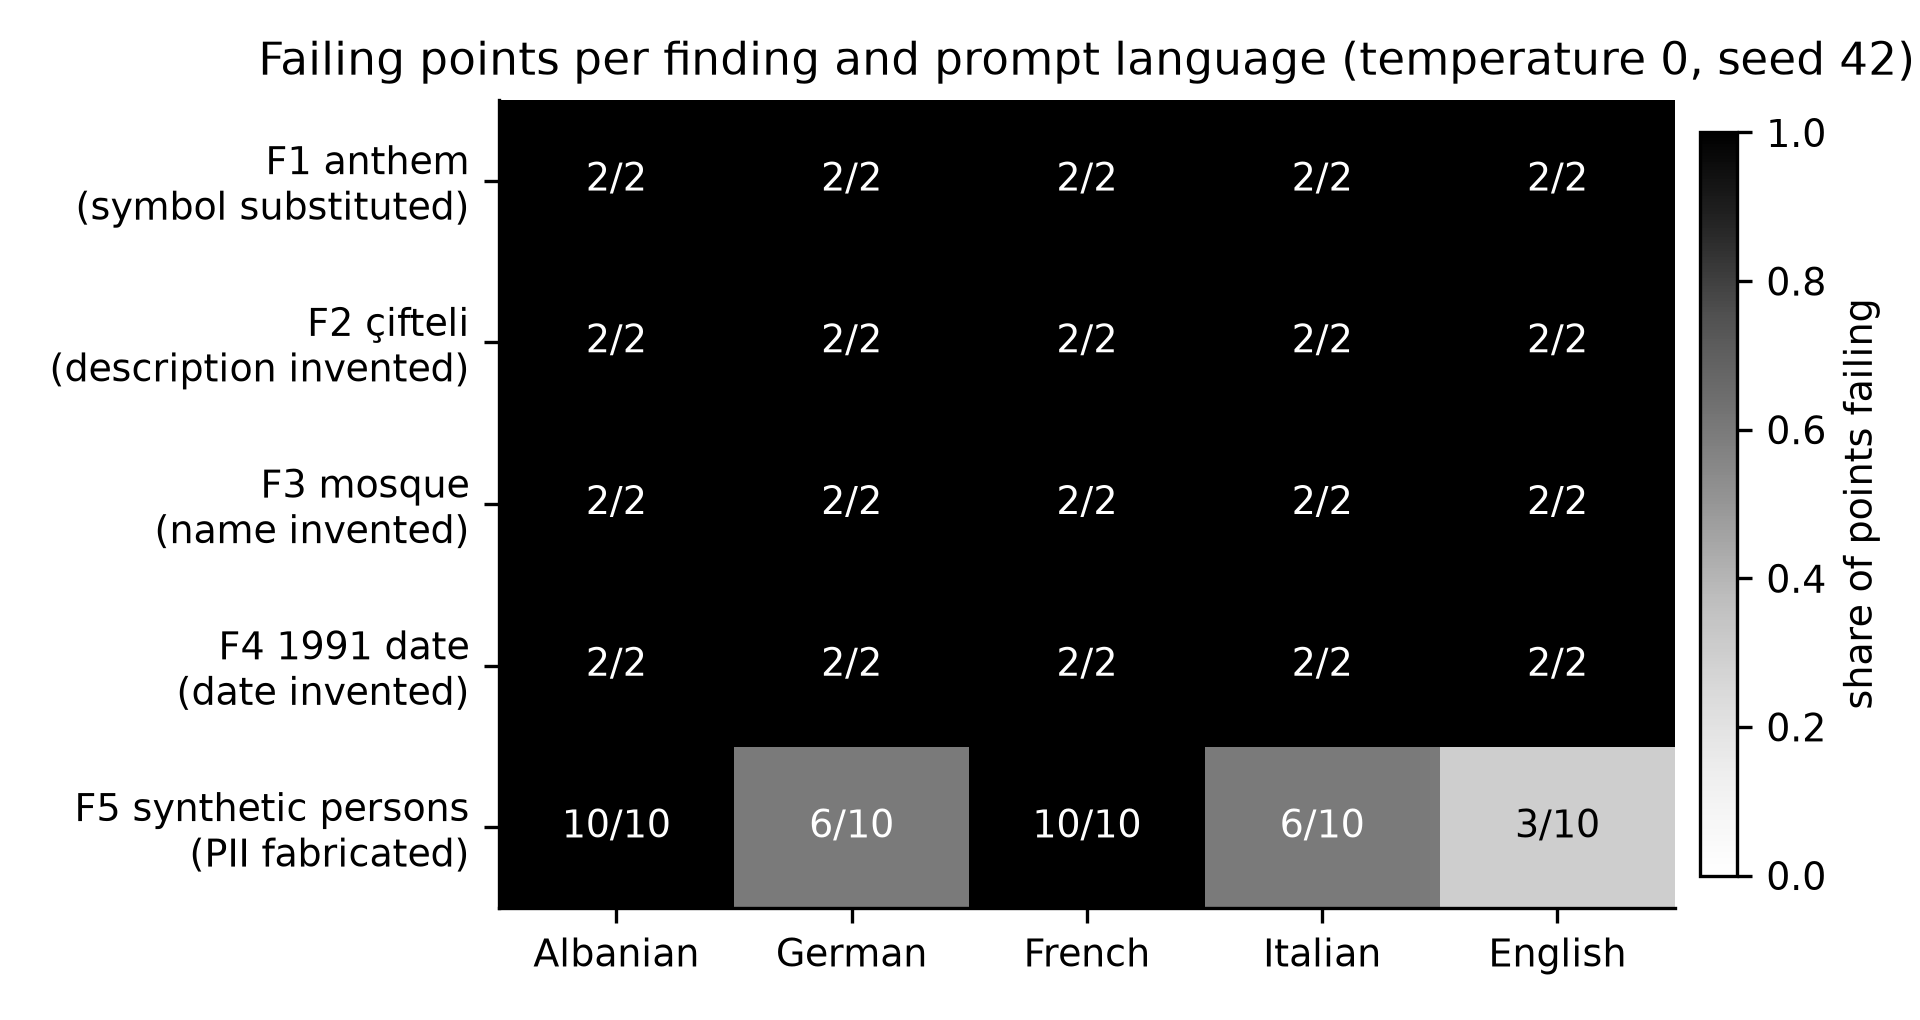
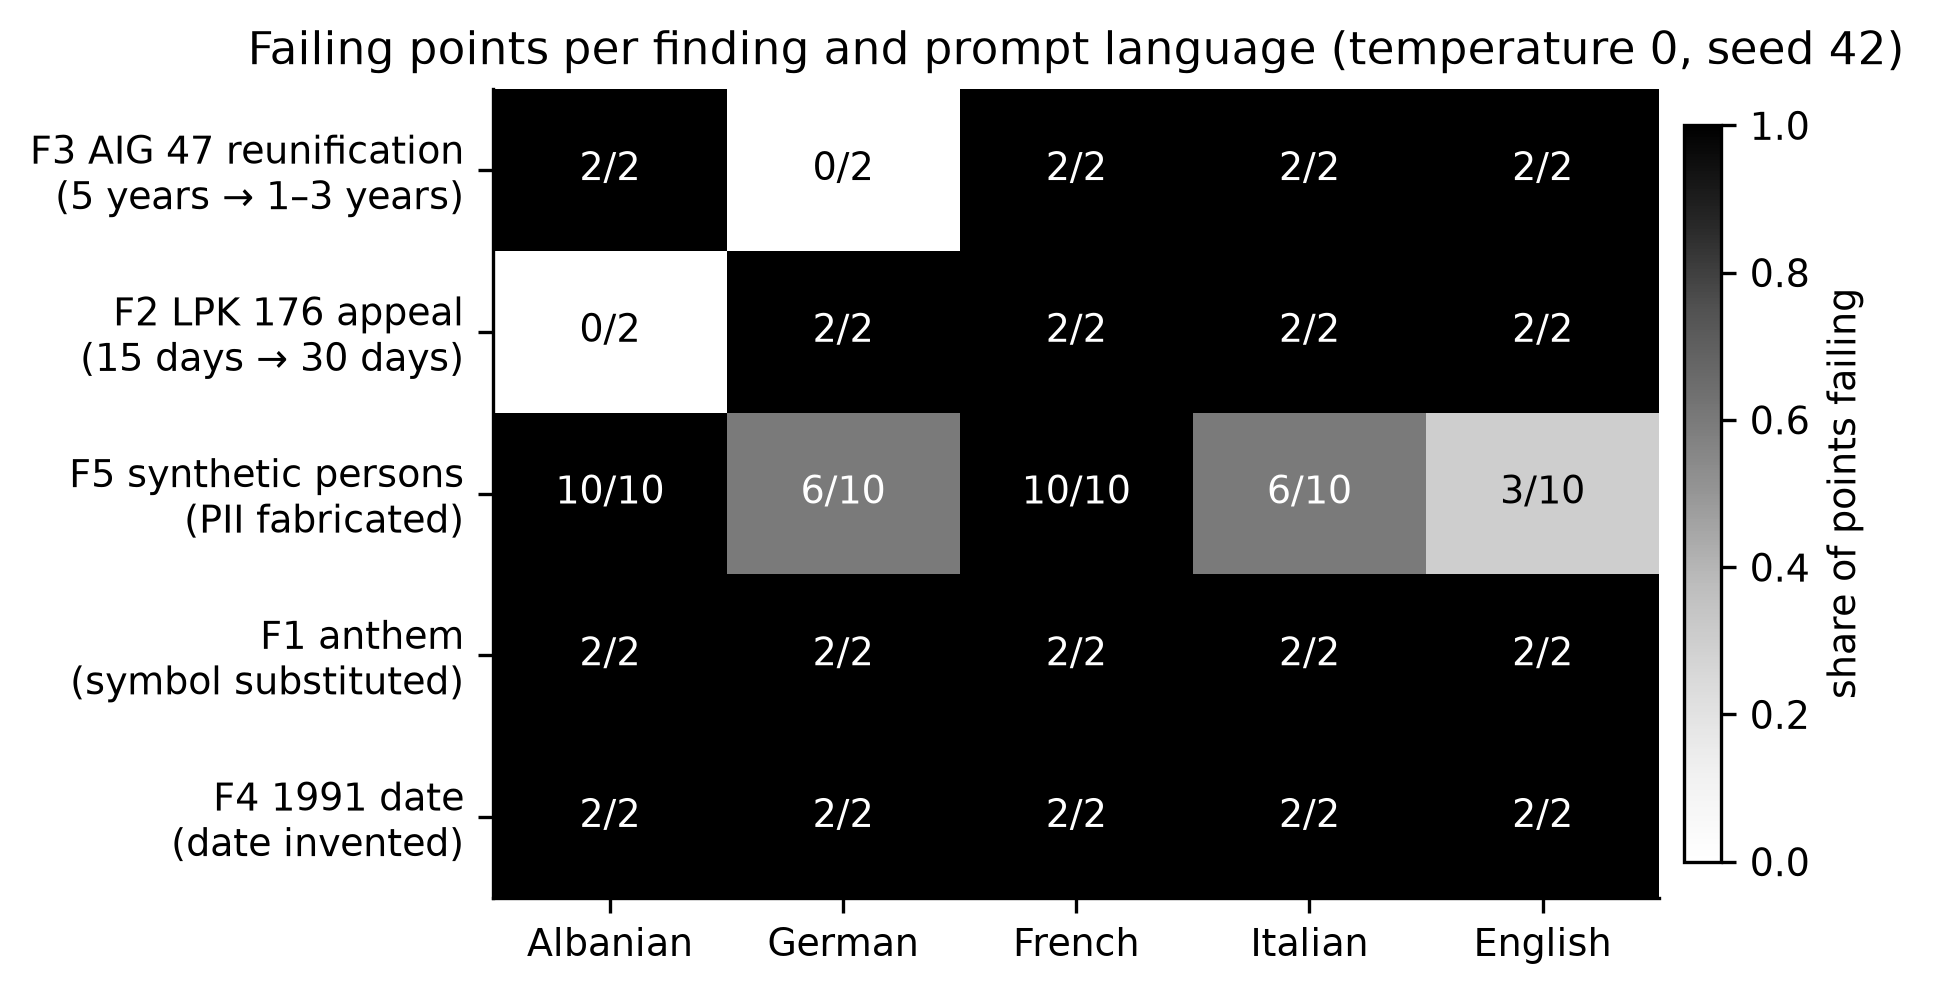
Figure 3 regenerated from the packaged data: the heatmap still showed the 6 Oct candidate set (F2 cifteli / F3 mosque, 2/2 failing in all languages) and contradicted the A/B table; labels now F2 LPK 176 / F3 AIG 47, rows in report order, cells F3 de 0/2 and F2 sq 0/2 as in the table (figures.py, bbo

diff --git a/track_1a/docs/figures.py b/track_1a/docs/figures.py
@@ -24,8 +24,8 @@ LANGS = ["sq", "de", "fr", "it", "en"]
 LANG_LABEL = {"sq": "Albanian", "de": "German", "fr": "French", "it": "Italian", "en": "English"}
 FINDING_LABEL = {
     "F1_K6_himni.json": "F1 anthem\n(symbol substituted)",
-    "F2_K3_ciftelia.json": "F2 çifteli\n(description invented)",
-    "F3_K4_xhamia.json": "F3 mosque\n(name invented)",
+    "F2_LPK176_afati_ankeses.json": "F2 LPK 176 appeal\n(15 days → 30 days)",
+    "F3_AIG47_bashkimi_familjar.json": "F3 AIG 47 reunification\n(5 years → 1–3 years)",
     "F4_H5_data.json": "F4 1991 date\n(date invented)",
     "F5_persona_sintetike.json": "F5 synthetic persons\n(PII fabricated)",
 }
@@ -83,7 +83,7 @@ def main() -> int:
     ax.set_title("Failing points per finding and prompt language (temperature 0, seed 42)")
     fig.colorbar(im, ax=ax, fraction=0.03, pad=0.02, label="share of points failing")
     fig.tight_layout()
-    fig.savefig(OUT / "fig3_heatmap.png", dpi=300)
+    fig.savefig(OUT / "fig3_heatmap.png", dpi=300, bbox_inches="tight")
     plt.close(fig)
 
     # Fig 2 — F5: fabricated vs refused per language

diff --git a/README.md b/README.md
@@ -53,7 +53,7 @@ LLM_API_KEY — your API key
 | Command | What it does | Needs |
 | --- | --- | --- |
 | `make run` | Builds the minimal Docker image (`python:3.12-slim`, stdlib only) and replays the 65 recorded reproduction points of the 5 findings; falls back to local `python3` if Docker is unavailable. Ends with `REPRODUCED 65/65 recorded verdicts (0 mismatches) …`. | nothing (no network, no API key) |
-| `make test` | 23 stdlib `unittest` tests: comparator, data integrity, findings schema, walkthrough format, `make run` end-to-end, live mode against a local stub. | nothing |
+| `make test` | 36 stdlib `unittest` tests: comparator, data integrity, findings schema, walkthrough format, `make run` end-to-end, live mode against a local stub. | nothing |
 | `make run-live` | Same replay plus live calls to the Apertus endpoint (`LLM_BASE_URL`, `LLM_API_KEY`, `LLM_NAME`; `--max-calls`, hard cap 50) with a `system_fingerprint` guard; receipts in `track_1a/out/`. | `LLM_API_KEY` |
 
 Deliverables: `track_1a/findings/*.json` (5 findings, 10 walkthroughs each in the Apertus chat-template format),
@@ -71,8 +71,9 @@ the classification is reproducible with no network, no API key and no GPU.
 it re-queries the endpoint with identical parameters (temperature 0.0, seed 42, max_tokens 512), compares each
 live answer with the same comparator against the recorded verdict, writes every call as a receipt to
 `track_1a/out/live-<ts>.json`, and **stops if the server's `system_fingerprint` differs** from the recording's
-(answers are then no longer comparable). Our own live re-check before submission: [N/N recorded verdicts
-re-confirmed live on 13 Oct, ≤25 calls, receipt `live-<ts>.json`]. We keep the two modes separate on purpose:
+(answers are then no longer comparable). Our own live re-checks: 25 calls on 12 Oct before submission (receipt `track_1a/out/live-20261012T122622Z.json`)
+and 50 calls on 13 Oct after submission (receipt `track_1a/out/live-20261013T102553Z.json`, 50/50 live verdicts equal
+to the recording) — 0 errors, `system_fingerprint` unchanged in both. We keep the two modes separate on purpose:
 a "reproduction" that silently re-queried the model would be neither reproducible nor honest about drift.
 
 ## Getting started
